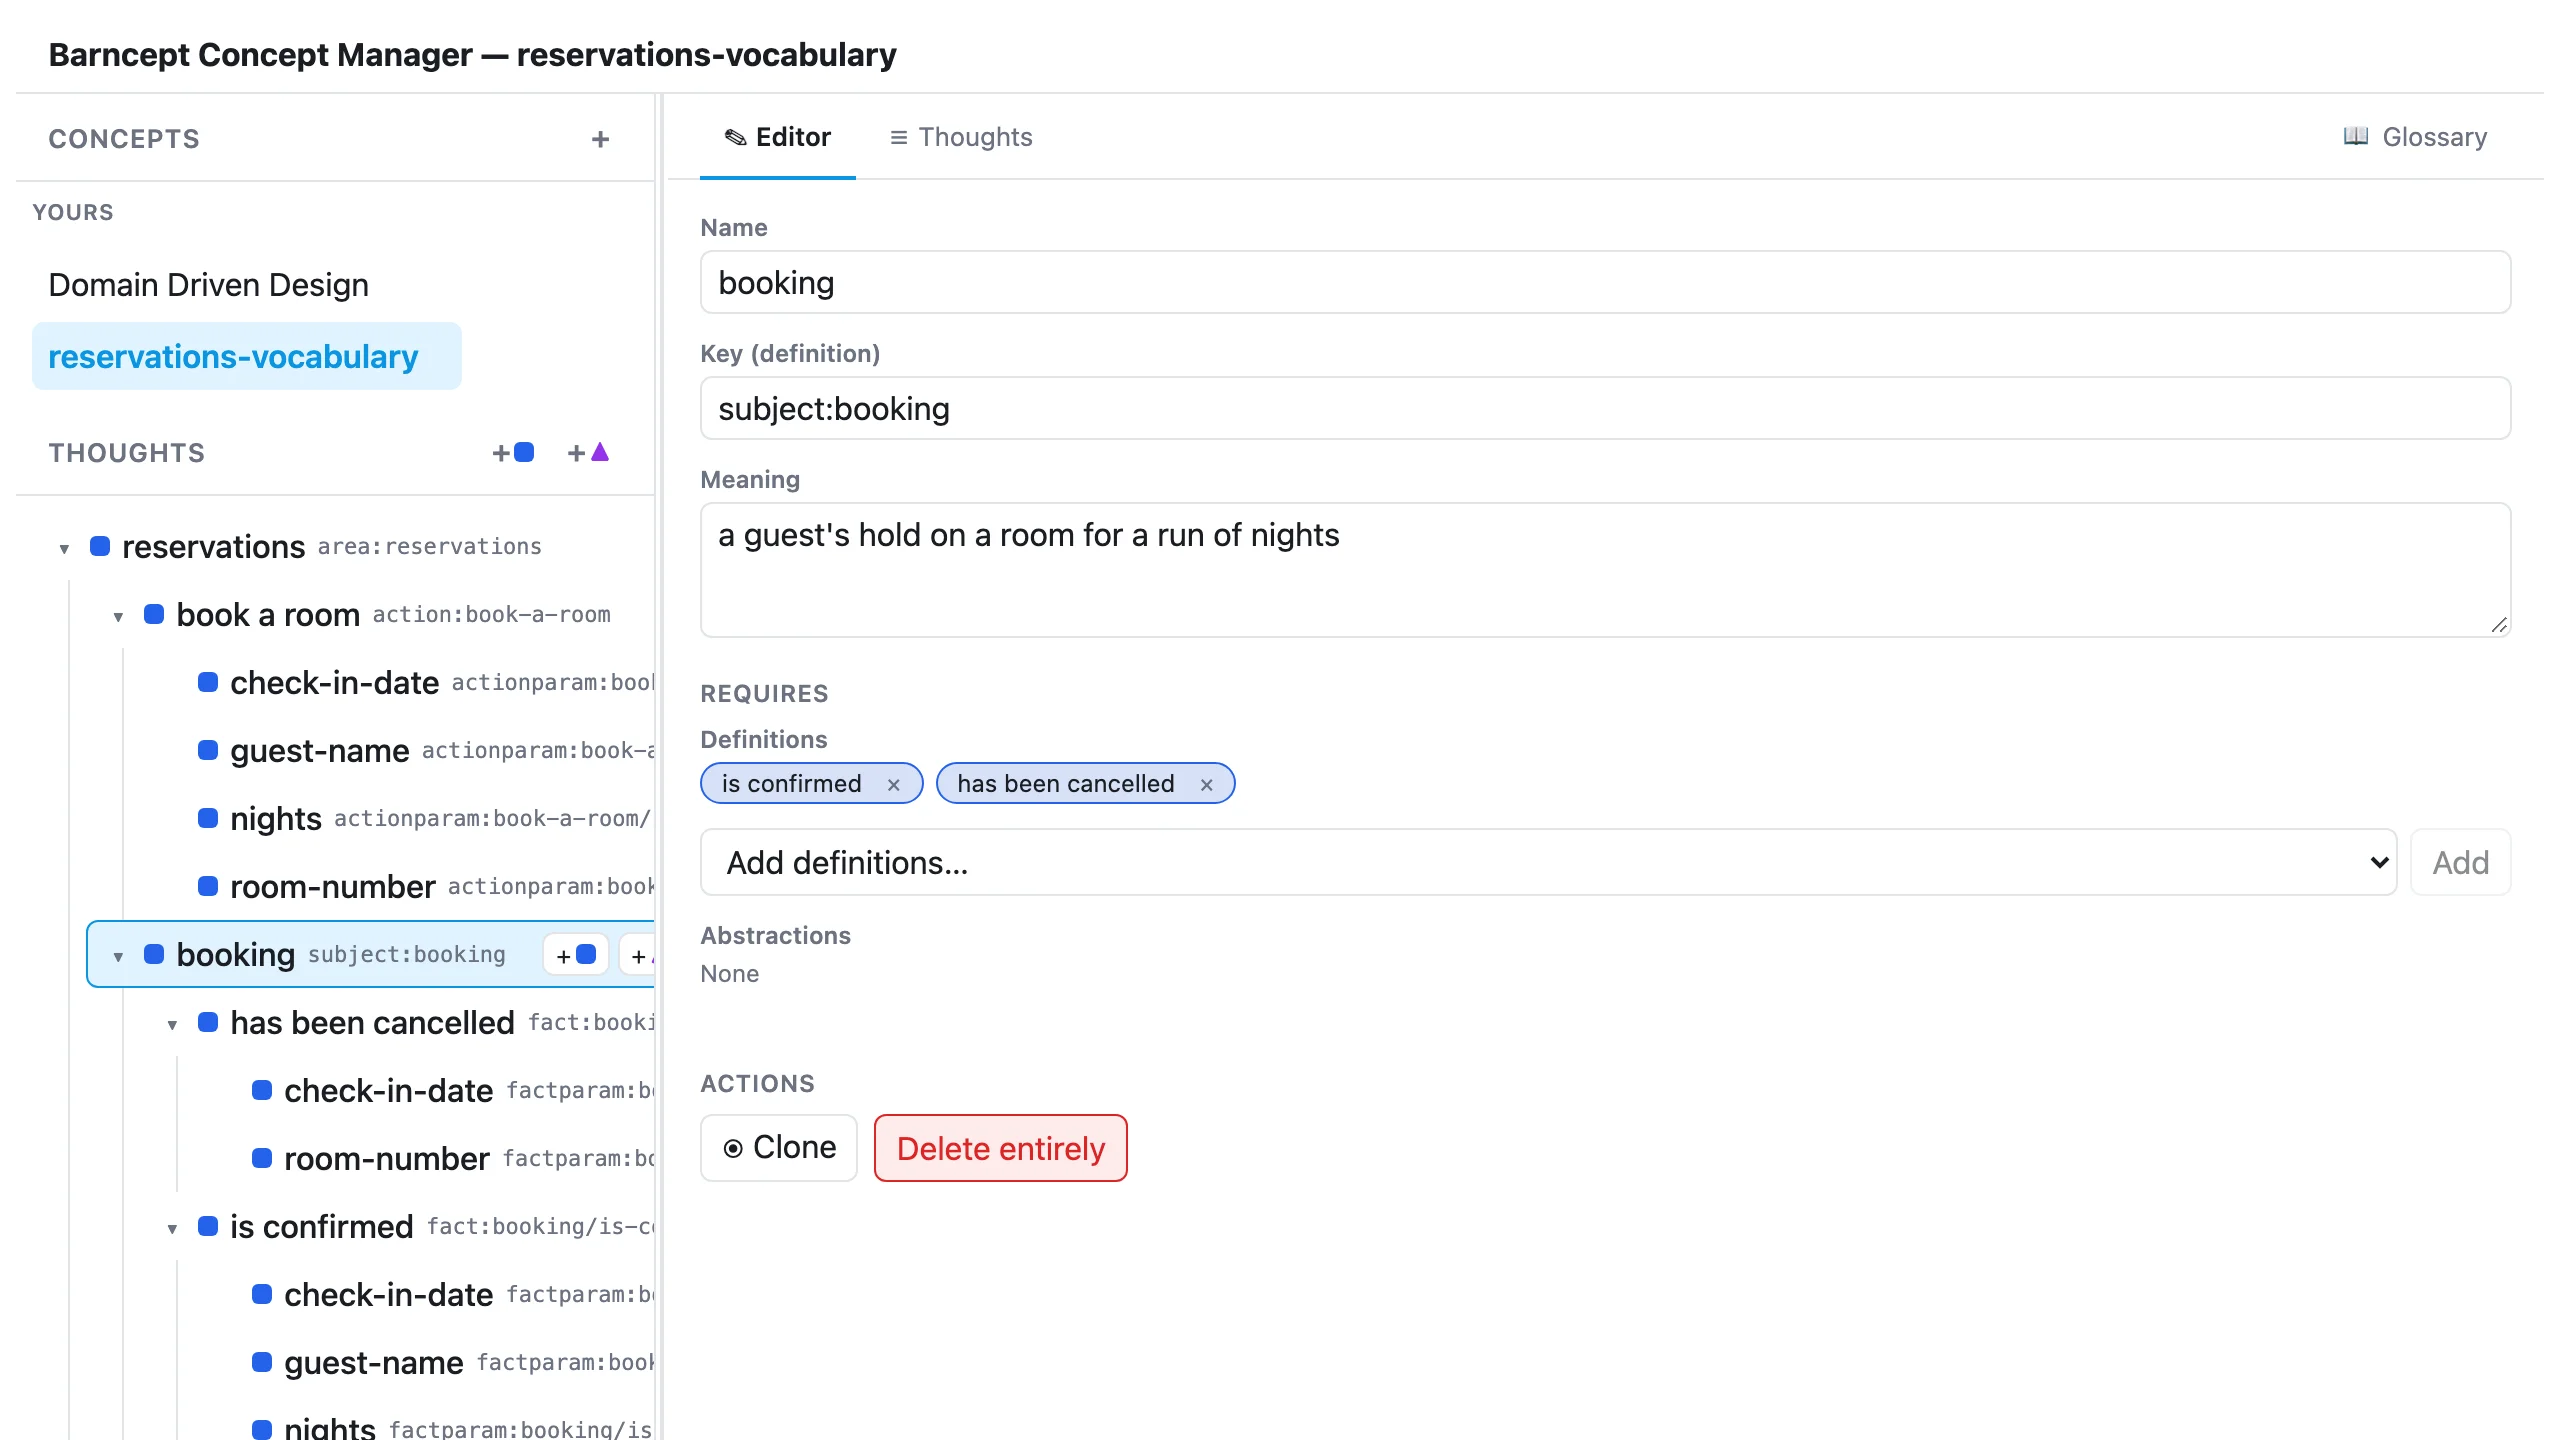
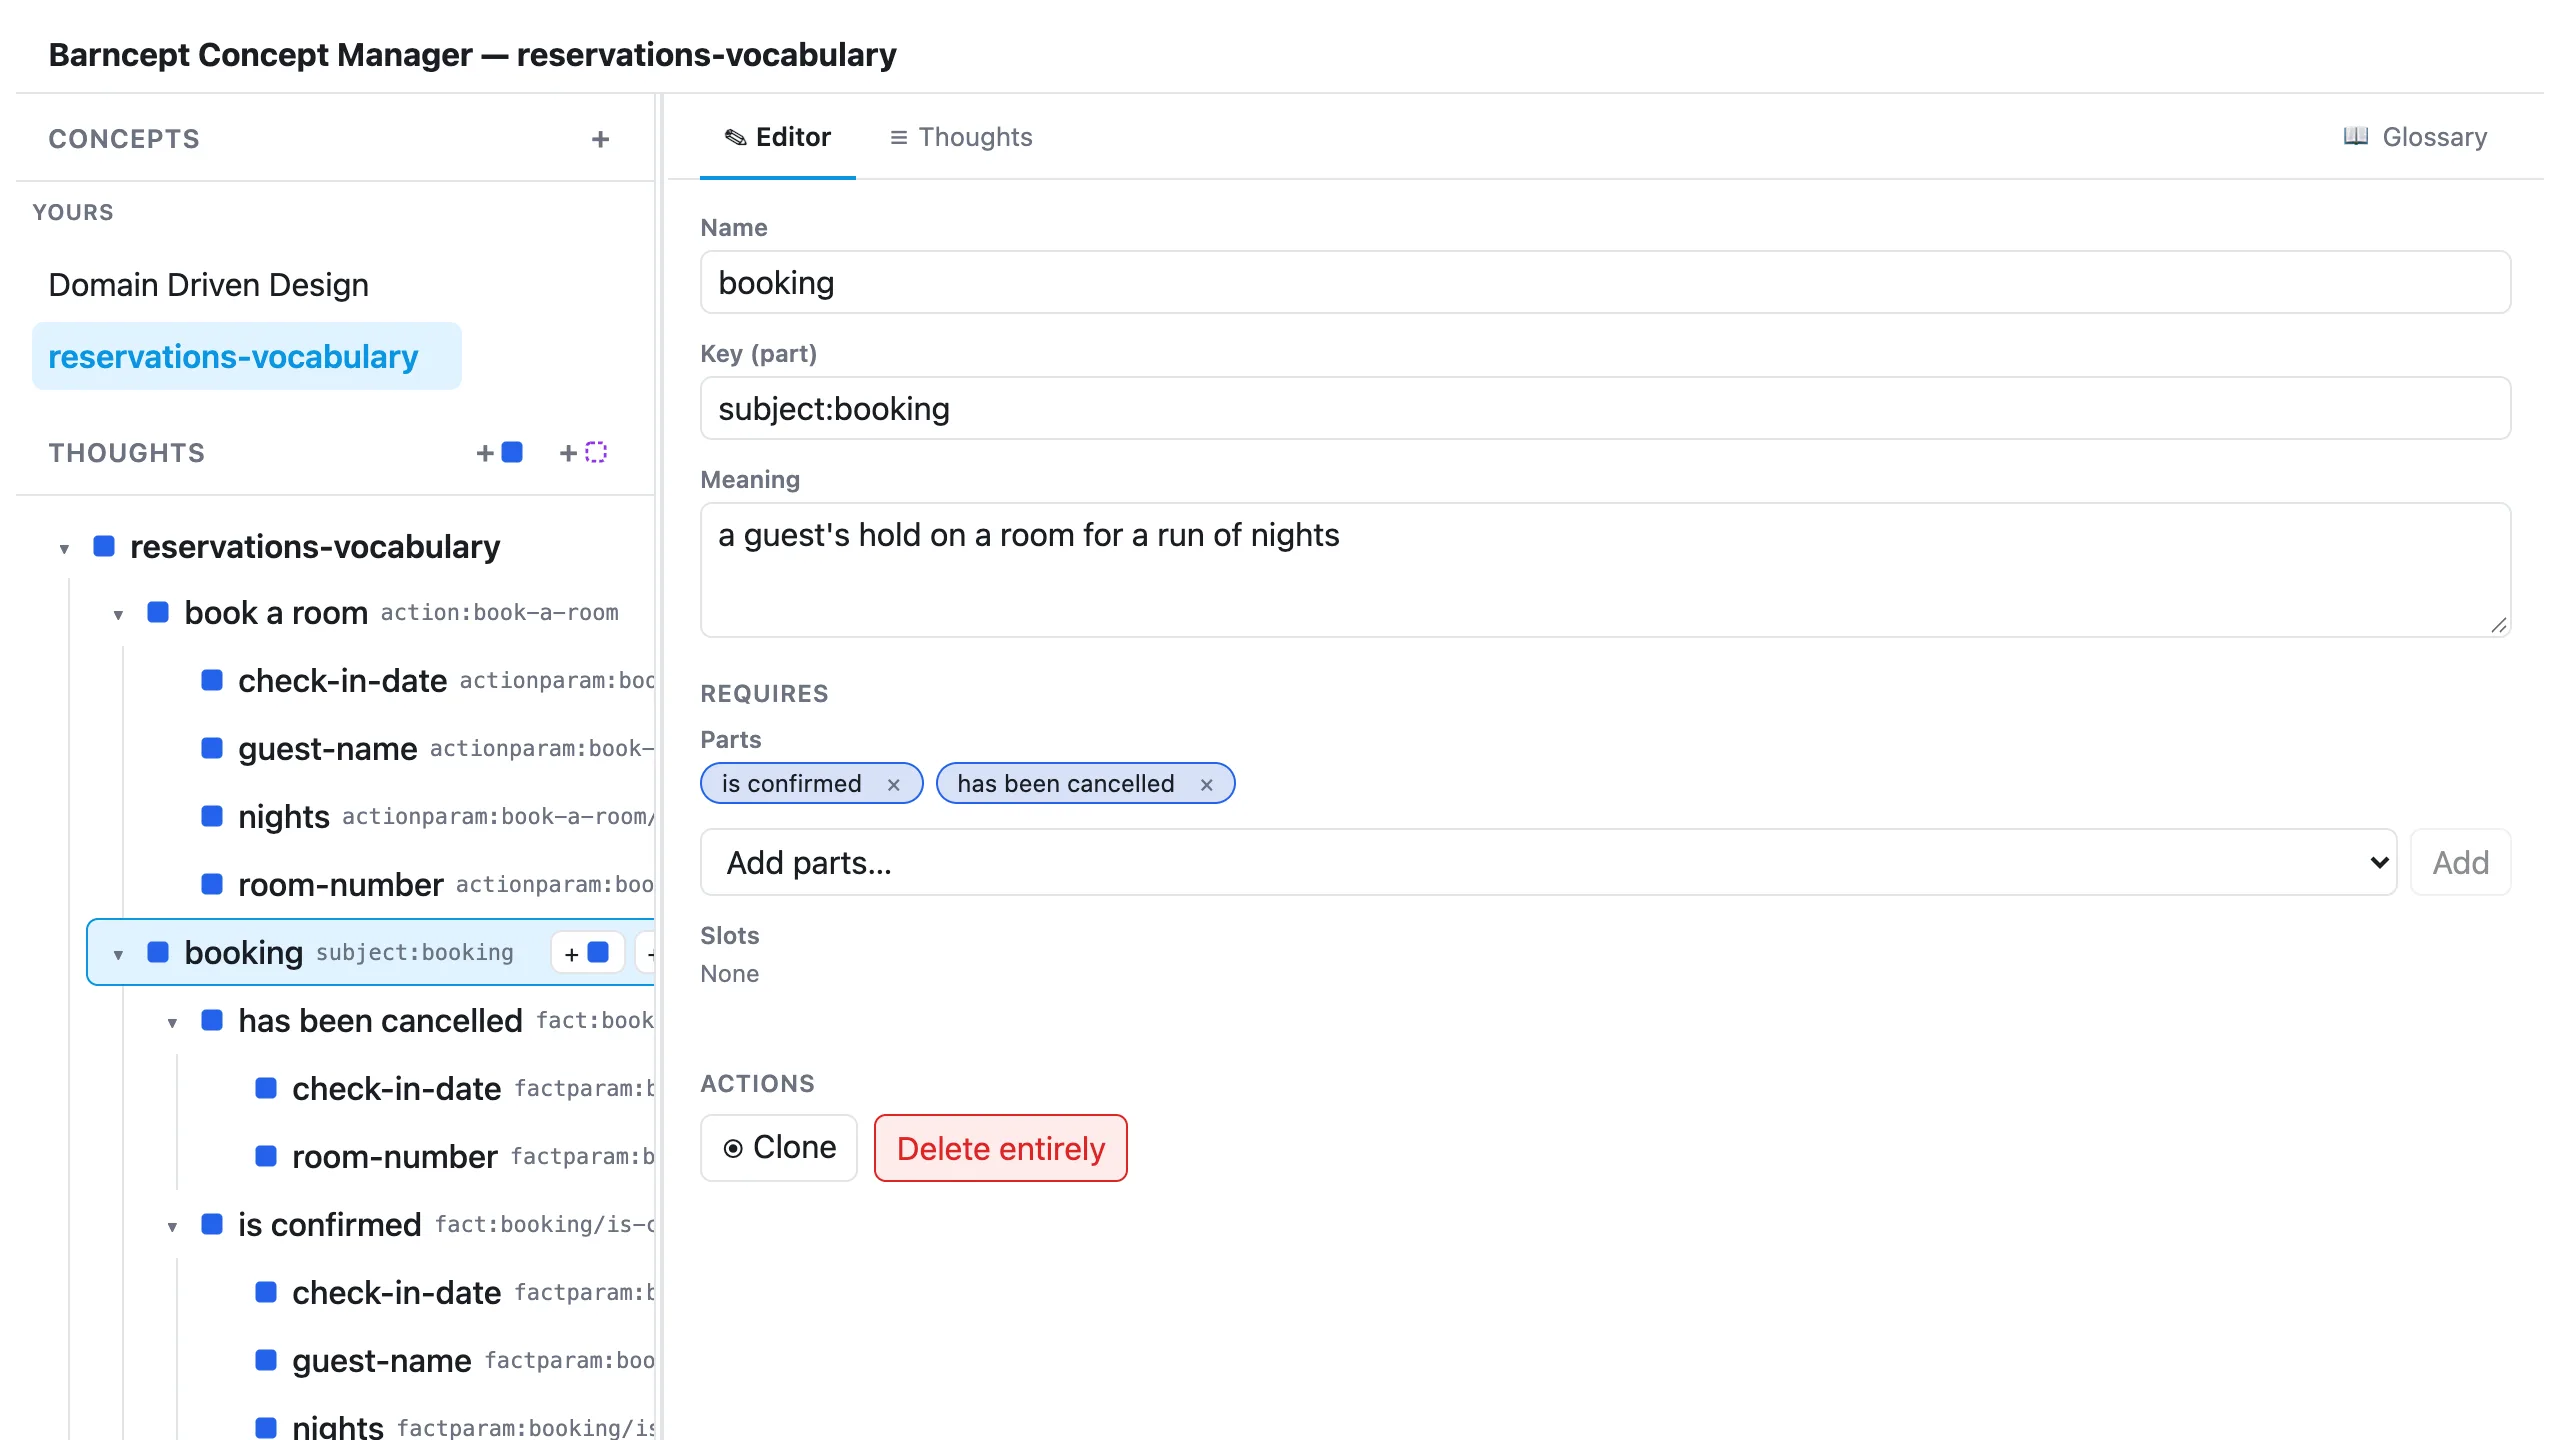
Barncept: Part, Slot and Choice, and retaken screenshots

diff --git a/barncept.html b/barncept.html
@@ -39,7 +39,7 @@
       <div class="wrap wide hero-shot">
         <figure class="shot">
           <div class="shot-bar" aria-hidden="true"><i></i><i></i><i></i><span>Barncept · Concept Manager</span></div>
-          <img src="assets/screens/cept-vocab.webp" width="1280" height="720" alt="The Barncept Concept Manager showing a hotel's reservations vocabulary as a tree of thoughts. The selected thought, booking, means a guest's hold on a room for a run of nights, and requires the facts is confirmed and has been cancelled.">
+          <img src="assets/screens/cept-vocab.webp" width="1280" height="720" alt="The Barncept Concept Manager showing a hotel's reservations vocabulary as a tree of thoughts. The selected thought, booking, means a guest's hold on a room for a run of nights, and holds two parts beneath it, the facts is confirmed and has been cancelled. Parts are marked with solid squares.">
         </figure>
       </div>
     </section>
@@ -121,7 +121,7 @@
           <figure>
             <div class="shot">
               <div class="shot-bar" aria-hidden="true"><i></i><i></i><i></i><span>Barncept · Concept Manager</span></div>
-              <img src="assets/screens/cept-editor.webp" width="1280" height="720" alt="The Barncept Concept Manager open on the Domain Driven Design architecture template, with the Command thought selected and its meaning shown.">
+              <img src="assets/screens/cept-editor.webp" width="1280" height="720" alt="The Barncept Concept Manager open on the Domain Driven Design architecture template, with the Command thought selected and its meaning shown. Parts are marked with solid squares and slots with dashed ones.">
             </div>
             <figcaption>An architecture template is a concept graph too.</figcaption>
           </figure>
@@ -138,20 +138,20 @@
         </div>
         <div class="deeper">
           <details>
-            <summary><span>The three kinds of thought<small>Definitions, Abstractions and Implementations</small></span></summary>
+            <summary><span>The three kinds of thought<small>Parts, Slots and Choices</small></span></summary>
             <div class="body">
               <ul>
-                <li><strong>Definition</strong>: a thought that can require other thoughts beneath it, such as <code>Application</code> or <code>Domain</code>.</li>
-                <li><strong>Abstraction</strong>: a role that concrete things fulfil, such as <code>Aggregate</code> or <code>Command</code>.</li>
-                <li><strong>Implementation</strong>: a concrete thing that fulfils one Abstraction, such as <code>Basket</code> fulfilling <code>Aggregate</code>.</li>
+                <li><strong>Part</strong>: a part that is always there, and can hold other thoughts beneath it, such as <code>Application</code> or <code>Domain</code>.</li>
+                <li><strong>Slot</strong>: a slot that has to be filled, such as <code>Aggregate</code> or <code>Command</code>.</li>
+                <li><strong>Choice</strong>: a concrete thing that fills one slot, such as <code>Basket</code> filling <code>Aggregate</code>.</li>
               </ul>
-              <p>The editor marks them with a square, a triangle and a circle.</p>
+              <p>The editor marks a part with a solid square, a slot with a dashed one waiting to be filled, and a choice with a puzzle piece.</p>
             </div>
           </details>
           <details>
             <summary><span>Concepts, blank and settled<small>Portable vocabulary, and the things that use it</small></span></summary>
             <div class="body">
-              <p>A <strong>concept</strong> is a broad, structured collection of thoughts about one thing, kept as one file. A concept with every role still open is a <strong>blank</strong> plan, a reusable vocabulary. Once Implementations fill its roles it is <strong>settled</strong>, and can be resolved from an entry point into a concrete, named tree. One concept can borrow another whole, so a vocabulary is written once and reused: a House can borrow the Room concept three times. A bad concept fails loudly, naming the missing reference or the cycle it found.</p>
+              <p>A <strong>concept</strong> is a broad, structured collection of thoughts about one thing, kept as one file. A concept with every slot still open is a <strong>blank</strong> plan, a reusable vocabulary. Once choices fill its slots it is <strong>settled</strong>, and can be resolved from an entry point into a concrete, named tree. One concept can borrow another whole, so a vocabulary is written once and reused: a House can borrow the Room concept three times. A bad concept fails loudly, naming the missing reference or the cycle it found.</p>
 <pre><code>Root
 |
 +--Application

diff --git a/README.md b/README.md
@@ -9,7 +9,7 @@ It leads with the philosophy and the GUIs. Details, terminology, the command
 line and installation sit in each page's collapsible "Go deeper" sections.
 The screenshots in `assets/screens/` are real: the three GUIs running against
 a copy of Pleasant Stay, with one extra in-progress Phase added to that copy
-so the map shows every status. `barn-home.webp` is the home page of Pleasant Stay adopted as a barn.
+so the map shows every status. The two Barncept shots (`cept-vocab`, `cept-editor`) were retaken on 2026-10-18 for Barncept 5's Part, Slot and Choice: Pleasant Stay's exported reservations vocabulary and Barnark's Domain Driven Design template, each converted to the 5.0 shape, since port-generator and Barnark still write Barncept 2. `barn-home.webp` is the home page of Pleasant Stay adopted as a barn.
 
 The three GUIs' READMEs and Barnspec's, Barnark's and Barncept's embed
 `spec-map`, `ark-browse` and `cept-vocab` by their published URL, so replacing
